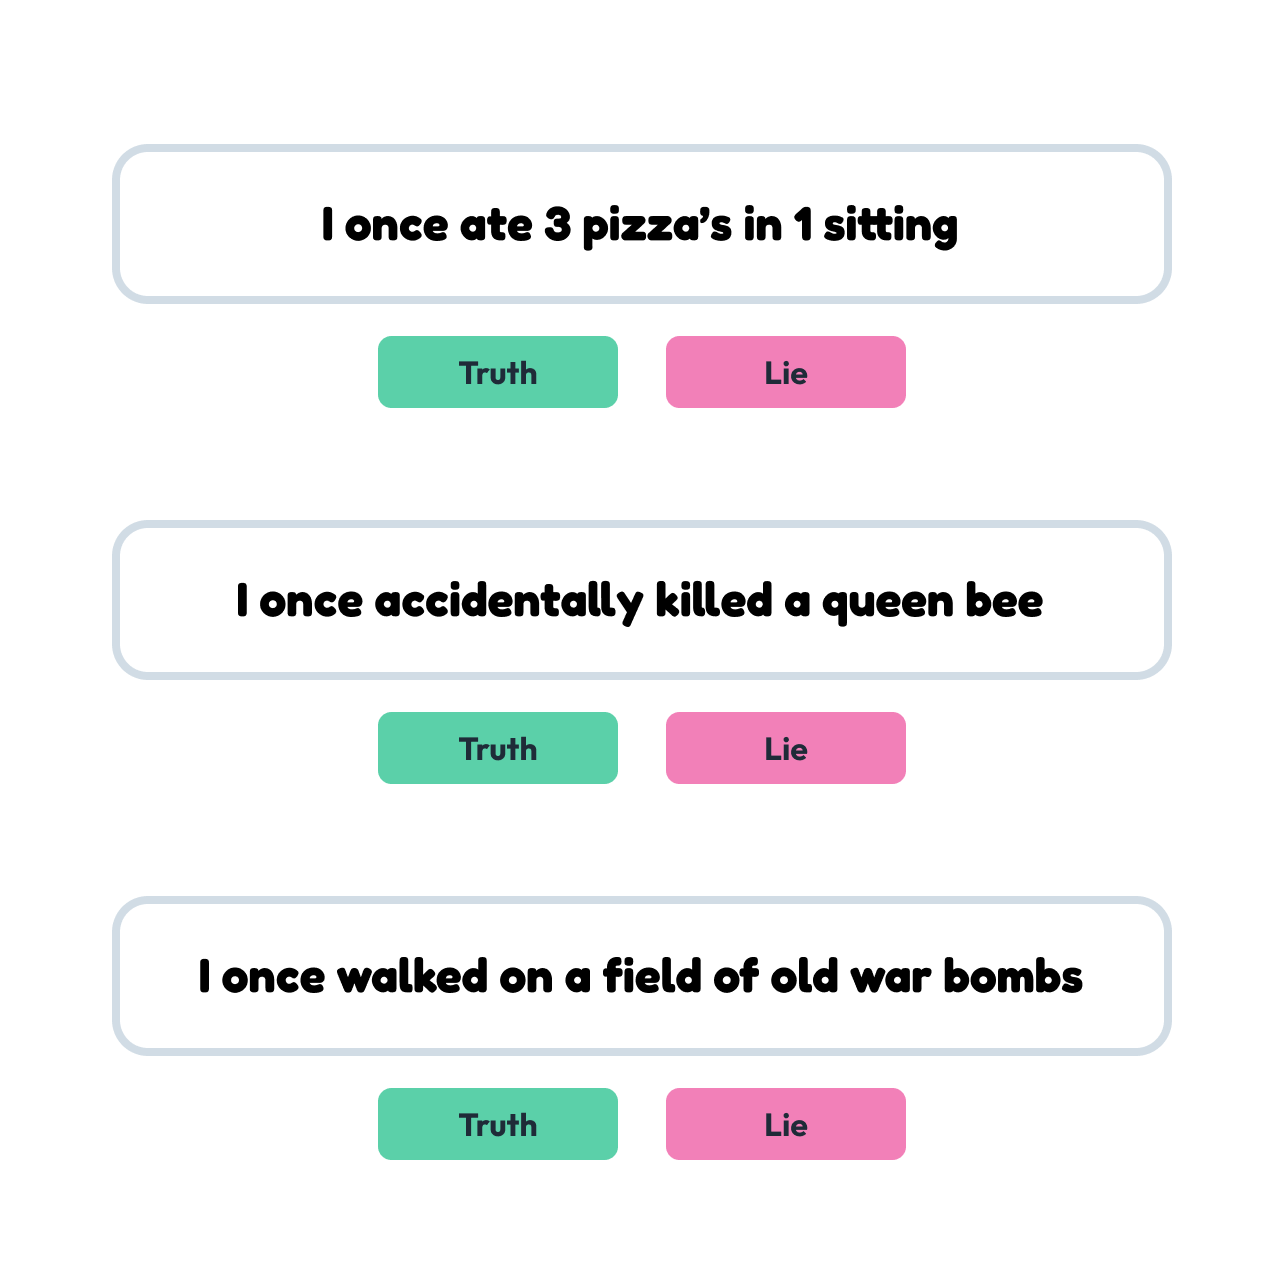
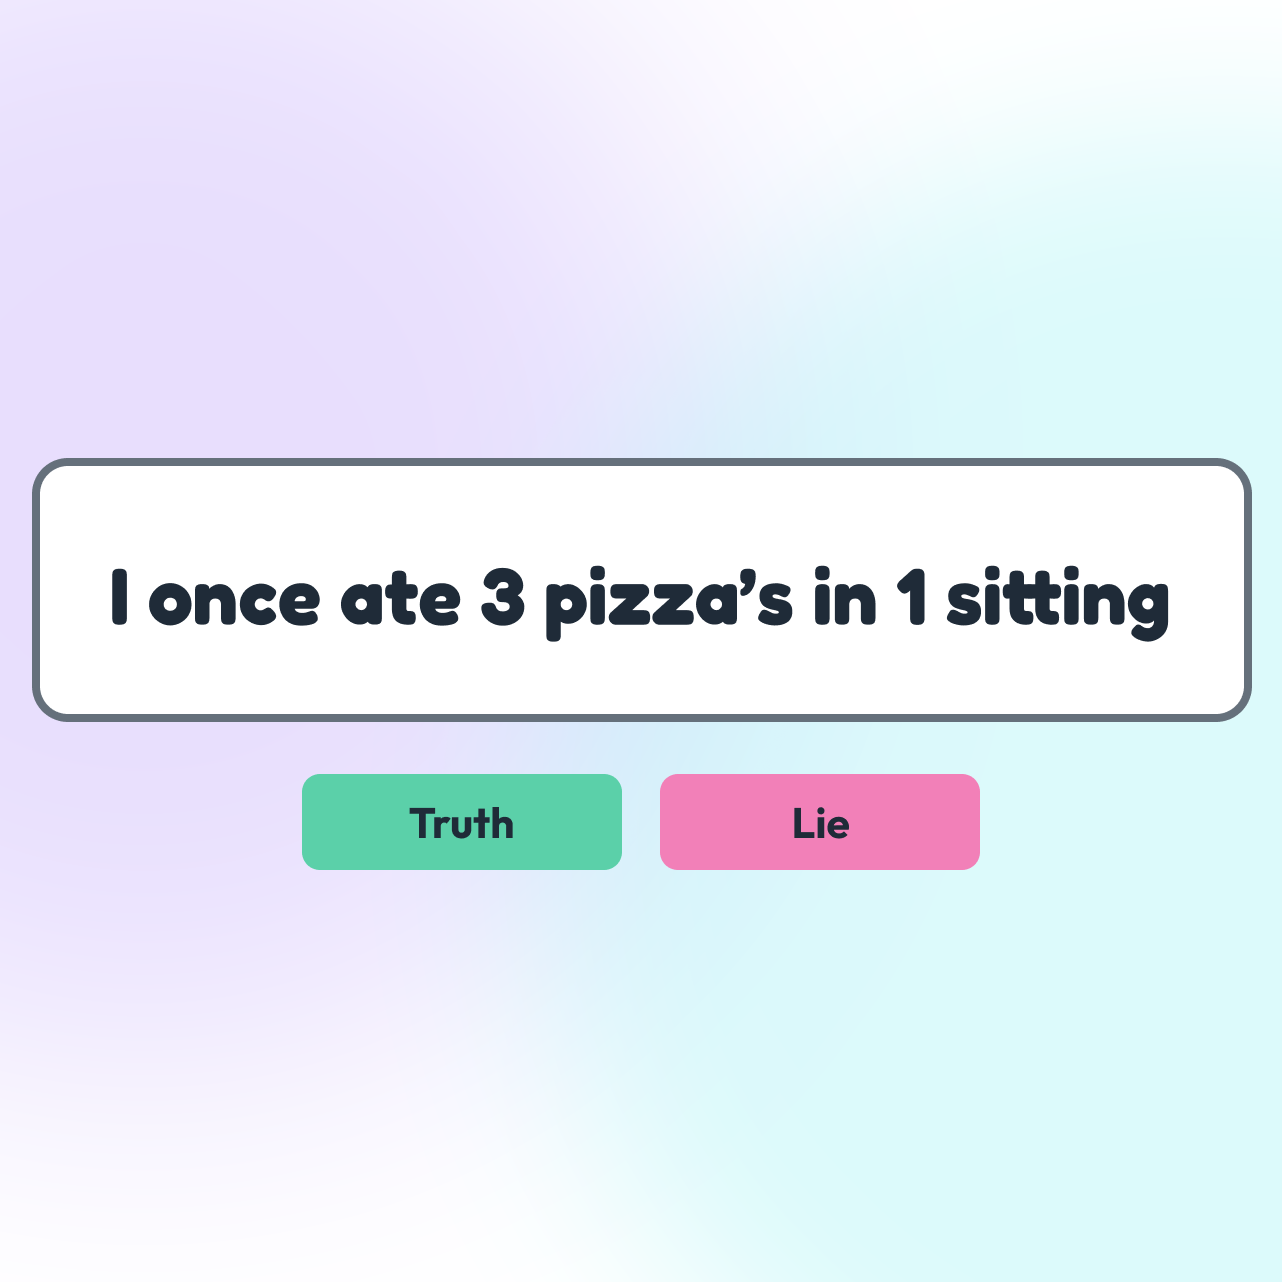
image change

diff --git a/app/lobby/page.tsx b/app/lobby/page.tsx
@@ -15,7 +15,7 @@ const placeholderCards = [
     route: "codenames",
   },
   {
-    title: "Placeholder 2",
+    title: "Two truths one lie",
     tone: "bg-zinc-300",
     image: twoTruthsImage.src,
     route: "twotruths1lie",
